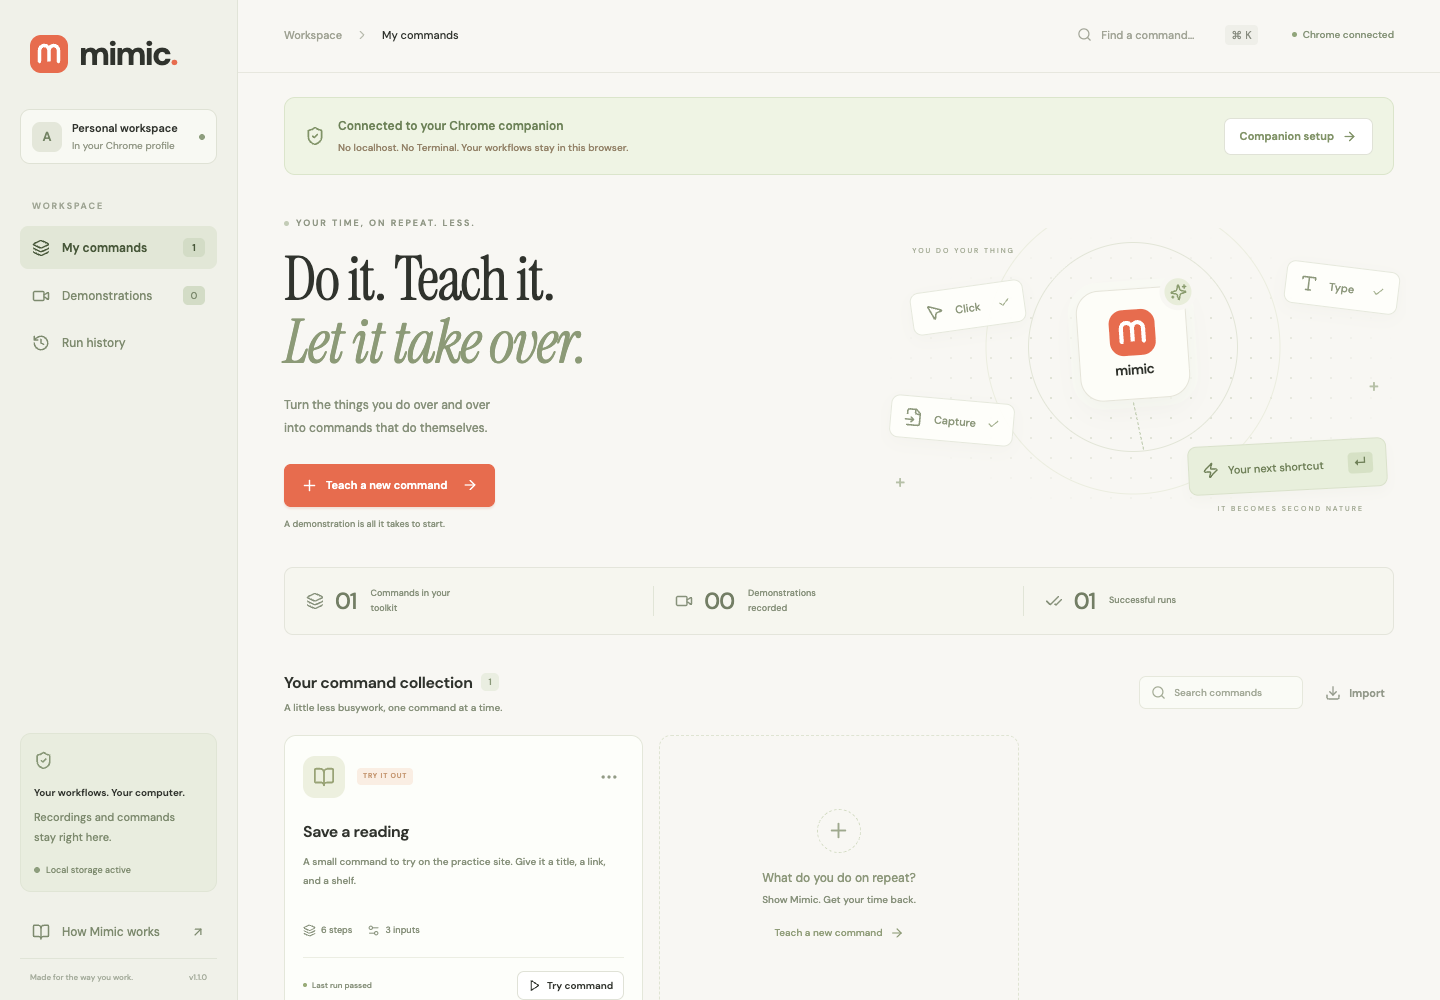
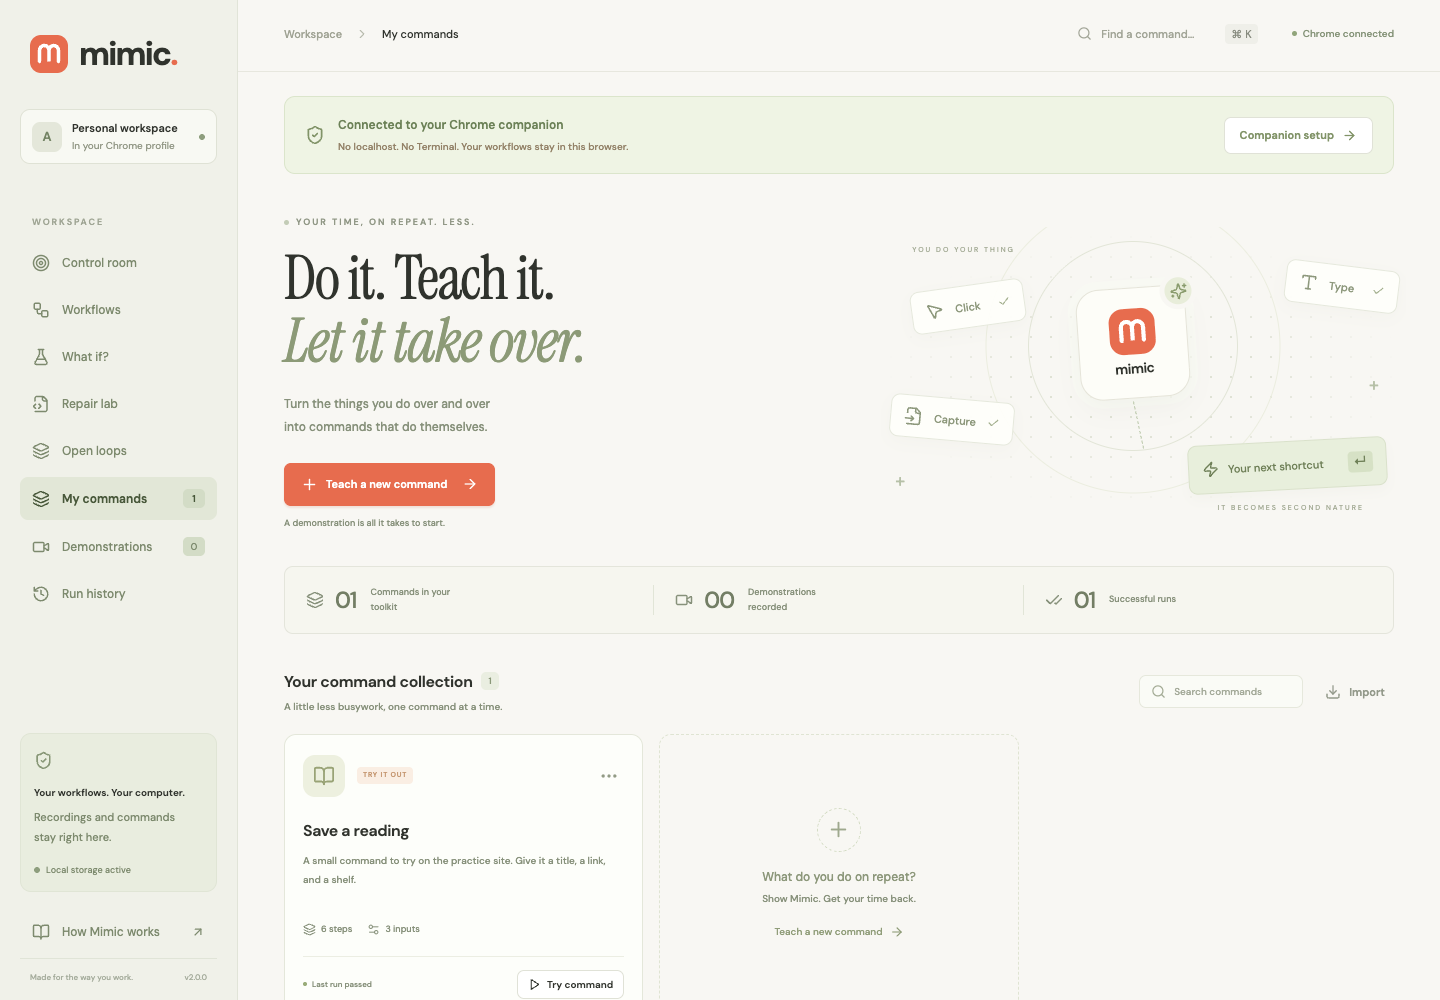
Document verified v2 production release and Chrome update

diff --git a/DEPLOYMENT.md b/DEPLOYMENT.md
@@ -1,32 +1,45 @@
-# Production deployment — September 6, 2026
+# Production deployment — Mimic 2
 
-- **URL:** https://mimic-aradhya.vercel.app
-- **Target:** production
-- **Status:** READY (confirmed through Vercel's deployment API)
-- **Project:** `mimic-aradhya`
-- **Deployment:** `dpl_7Er4DFLXWxaoawGjNcKjCTeVMRGj`
-- **Framework:** Vite, static dashboard and companion download
-- **Build duration:** approximately 11 seconds (14 seconds for the deployment command)
-- **Commit:** unversioned local workspace; no Git repository was present
+- URL: https://mimic-aradhya.vercel.app
+- Target: production
+- Status: READY, confirmed with Vercel CLI deployment result and `vercel inspect`
+- Project: `mimic-aradhya`, team `vendraft`
+- Deployment: `dpl_FuxMKvxhQoJ7uZnHH8PezusBveCH`
+- Immutable deployment URL: https://mimic-aradhya-ea9lhfpk5-vendraft.vercel.app
+- Application commit: `1e6f210`
+- Framework: Vite static dashboard with Chrome companion
+- Deployment command duration: approximately 12 seconds
+- Released September 6, 2026
+- Public source: https://github.com/odoisveryverygood/mimic
 
-## Validation
+## Verified behavior
 
-- TypeScript check passed.
-- Local and cloud production builds passed. Vite reports two non-blocking annotation warnings from Zod dependencies; both bundles were produced successfully.
-- Full suite: **10 tests passed, 0 failed**. It includes the original recorder and the new real Chrome extension flow.
-- Public dashboard, hosted practice page, and companion ZIP each returned **HTTP 200** without authentication.
-- The manifest and worker in the downloaded production ZIP exactly matched the locally built production files. Only `https://mimic-aradhya.vercel.app/*` is permitted to message the extension; the development test origin is absent.
-- A real Chromium browser loaded the production extension and the actual Vercel URL. Through the dashboard UI, the six-step sample command filled the hosted practice page, paused before saving, resumed, and captured **Saved “Mimic live deployment verification” to Research.**
-- No localhost or `/api/` HTTP calls occurred during the cloud UI run. Browser page errors: **0**.
-- Command persistence was separately verified through browser restarts in the extension integration test.
-- Screenshots: `screenshots/cloud-dashboard.png` and `screenshots/cloud-run.png`.
+TypeScript checking, cloud and local production builds passed. Full suite: **15 passed, 0 failed**. Vite emitted only the pre-existing Zod annotation warnings.
+
+`node scripts/verify-live.mjs` loaded the real production site with the production companion in an isolated Chromium profile and verified:
+
+- Dashboard, hosted practice page, and companion ZIP return HTTP 200 without authentication.
+- Downloaded companion manifest and worker match the production build; only the production dashboard origin is allowed.
+- The original six-step command pauses for review, resumes, and captures the saved confirmation.
+- A new outcome assertion added through the Workflows UI passes only after observing its expected result.
+- A scenario is saved and compared, with an actual ending-cash result recorded.
+- An admin request cannot close with an unfinished checklist; checked items and completion evidence persist.
+- A repair original fails, the authored correction passes the same test, and editing the candidate invalidates that proof.
+- Workbench data survives dashboard reloads. Extension command history survives browser restarts in the integration suite.
+- No localhost or `/api/` HTTP requests. Browser page errors: 0.
+
+Additional integration checks verify the repair sandbox blocks attempted fetches, image requests, popups, and top-level navigation, then closes its test tab. Desktop and mobile screenshots are in `screenshots/mimic-v2-*.png`.
+
+## User Chrome installation
+
+The existing companion folder was updated and reloaded through Chrome's Extensions UI. The UI confirms version **2.0.0**, enabled, with the same extension ID `mobgpafflgnciihjnpbfmnhpoaaipnlb`. Permissions remain `debugger`, `storage`, and `tabs`. The user's live dashboard shows **Chrome connected**; the existing command and demonstration remain available. Verification scenarios and test cases were created only in isolated test profiles.
 
 ## Operational boundary
 
-The production site is available independently of this Codex task or the original Node process. Browser recording and replay require the companion to be installed in the Chrome profile where the user opens the dashboard. Verification installed it in an isolated test profile; it has **not** been installed in the user's everyday Chrome profile. The production site provides the download and one-time installation instructions.
+See [UPGRADE-V2.md](UPGRADE-V2.md) for the full capability matrix. Model-key destination approval was declined, so no model key was created or saved. Automatic planning and patch generation are not connected. Inbox, repository, background monitoring, and unattended cloud execution are not connected.
 
-The web edition stores workflow data in Chrome, not on Vercel. The original `.mimic/` library and its browser profile were excluded from deployment. The original local server was stopped after deployment so the new setup does not rely on it.
+The website stays available independently of Codex or localhost. Browser workflows require Chrome open with the companion. Workbench data remains in dashboard site storage; command and browser-run data remain in the companion. Neither library is uploaded to Vercel. Export the two backups separately.
 
-## Post-deployment observability
+## Observability
 
-The public routes and a full browser run were checked directly. There are no cloud workflow execution functions to monitor: browser control runs inside the companion. No ongoing monitoring or log drains were configured.
+Public route checks and production browser verification passed with no page errors. The app has no cloud workflow functions producing runtime logs. No ongoing monitoring or log drains were configured.
